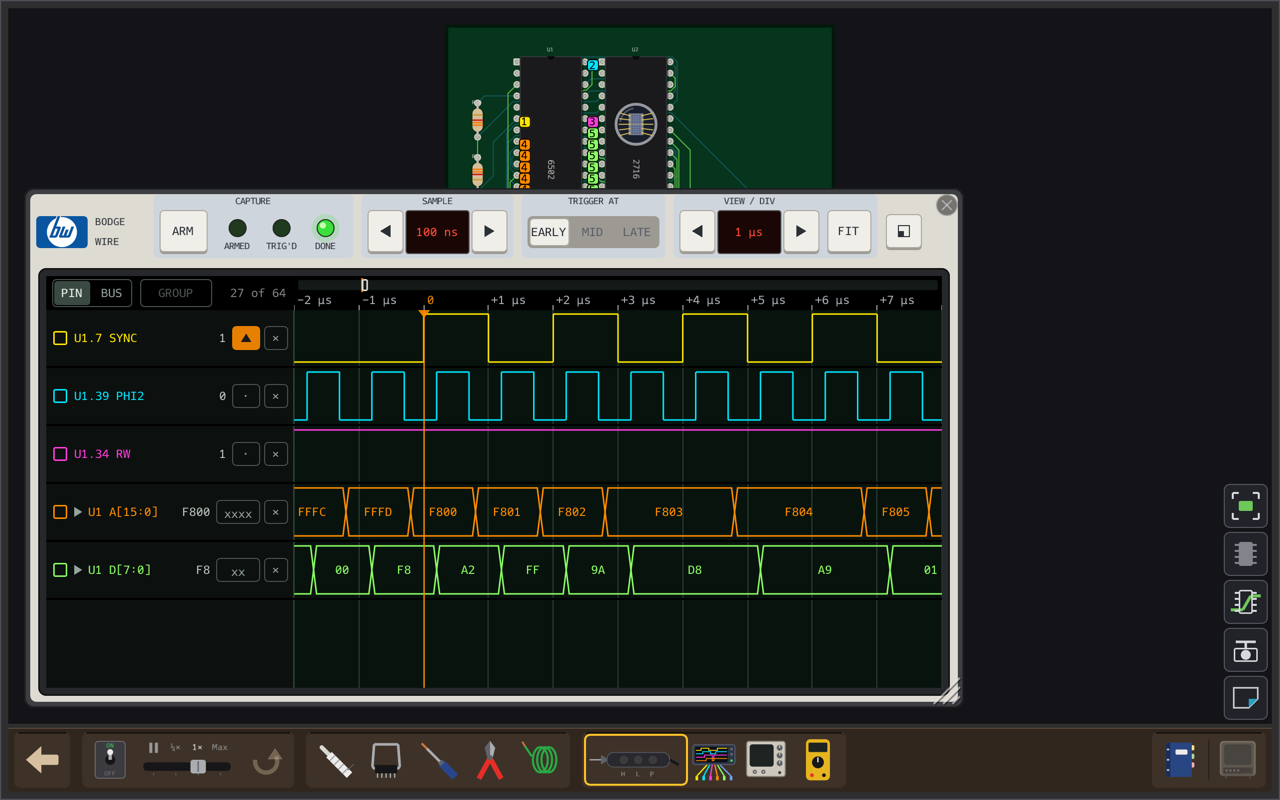
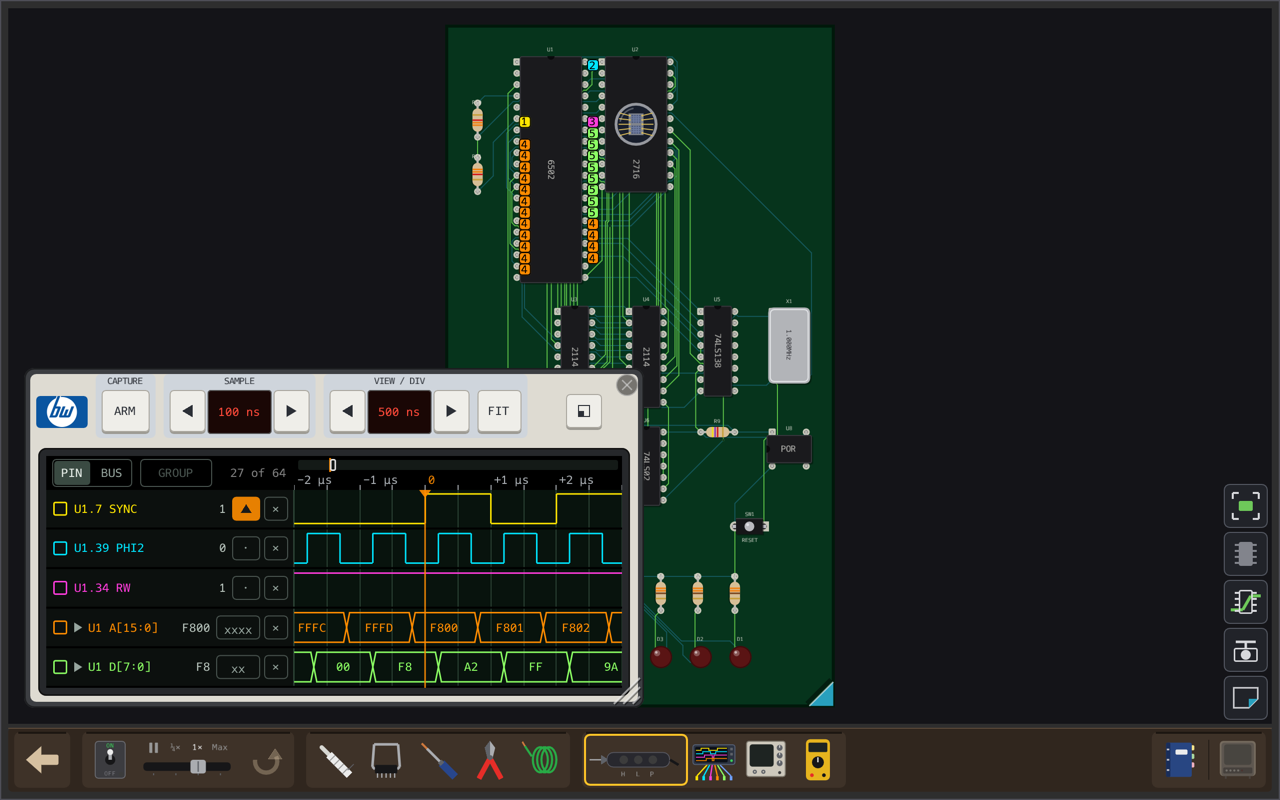
ui: the analyzer narrower: no TRIGGER AT, its phase on the ARM key (P8i)
The Trigger stays early in memory (every manual's setup within its 10 %);
ARM lit amber while armed, green while filling (DrawLitKey). The minimal
size 620 x 340, the scope's width. The README shot zoomed to 500 ns a
division so the reset vector's cells read at that width.
Checks: the full release suite; screenshots.

Changed region(s): [[0.0, 0.2188, 0.75, 0.9062], [0.0312, 0.7812, 0.125, 0.8438]]

diff --git a/src/ui/analyzer_window.cpp b/src/ui/analyzer_window.cpp
@@ -45,9 +45,8 @@ constexpr float kPlateKey = 28;  // a plate's keys' hit boxes, a finger's (kCont
 constexpr float kBitKey = 28, kBusKey = 44, kCloseKey = 24;
 constexpr float kBackKey = 22;  // ◀ or ▶, back to the Trigger, at an end of the axis
 constexpr std::array<const char*, 5> kConditions{"any", "0", "1", "rise", "fall"};
-constexpr std::array<TriggerPosition, 3> kPositions{TriggerPosition::Early, TriggerPosition::Middle,
-                                                    TriggerPosition::Late};
-constexpr std::array<const char*, 3> kPositionNames{"EARLY", "MID", "LATE"};
+constexpr ImU32 kArmWaiting = IM_COL32(255, 196, 92, 255);   // ARM lit amber: armed
+constexpr ImU32 kArmFilling = IM_COL32(124, 230, 112, 255);  // and green: triggered
 constexpr const char* kEmptyHint = "Clip a pin: the analyzer in hand, click a chip's pin.";
 
 // `width` bits in hex, X for a value with an unknown member.
@@ -57,10 +56,6 @@ std::string BusText(std::uint32_t value, bool unknown, std::size_t width) {
         return std::string(digits, 'X');
     }
     return std::format("{:0{}X}", value, digits);
-}
-
-Time BeforeTrigger(TriggerPosition position, Time period) {
-    return static_cast<Time>(PreTriggerPoints(position)) * period;
 }
 
 ImU32 WithAlpha(ImU32 colour, int alpha) {
@@ -228,15 +223,12 @@ bool AnalyzerWindow::draw(bool& open, Session& session) {
 
     // The case: frame, groups and their labels, badge, bezel.
     DrawCaseFrame(list, at, windowSize.x, windowSize.y);
-    for (const Box& group :
-         {layout.captureGroup, layout.sampleGroup, layout.triggerAtGroup, layout.viewGroup}) {
+    for (const Box& group : {layout.captureGroup, layout.sampleGroup, layout.viewGroup}) {
         DrawGroup(list, at, group);
     }
     const float labelY = layout.captureGroup.y0 + 2;
     DrawGroupLabel(list, at, layout.captureGroup.x0, layout.captureGroup.x1, labelY, "CAPTURE");
     DrawGroupLabel(list, at, layout.sampleGroup.x0, layout.sampleGroup.x1, labelY, "SAMPLE");
-    DrawGroupLabel(list, at, layout.triggerAtGroup.x0, layout.triggerAtGroup.x1, labelY,
-                   "TRIGGER AT");
     DrawGroupLabel(list, at, layout.viewLess.x0, layout.viewMore.x1, labelY, "VIEW / DIV");
     DrawBadge(list, at, layout.badge);
     DrawBezel(list, at, layout.bezel);
@@ -248,20 +240,25 @@ bool AnalyzerWindow::draw(bool& open, Session& session) {
         ImGui::SetItemTooltip("%s", tip);
         return std::pair{hit, ImGui::IsItemActive()};
     };
-    // CAPTURE: ARM, and while paused the run resumed (P8i); the phase's lamps.
-    const auto [arm, armHeld] = key("##arm", layout.armKey, "arm: a Capture at the next Trigger");
+    // CAPTURE: ARM, lit by the phase (2026-11-27: in place of three lamps): amber while it waits
+    // for the Trigger, green while it fills after it, dark with a Capture shown; and while paused,
+    // ARM resumes the run (P8i).
+    const AnalyzerPhase phase = setup.phase();
+    const bool armed = phase == AnalyzerPhase::Armed || phase == AnalyzerPhase::Filling;
+    const char* armTip = phase == AnalyzerPhase::Armed     ? "armed: waiting for the Trigger"
+                         : phase == AnalyzerPhase::Filling ? "triggered: filling the Capture"
+                                                           : "arm: a Capture at the next Trigger";
+    const auto [arm, armHeld] = key("##arm", layout.armKey, armTip);
     if (arm) {
         setup.arm();
         if (session.powered() && session.status().state == RunState::Paused) {
             runAsked_ = true;
         }
     }
-    DrawKey(list, at, layout.armKey, "ARM", armHeld);
-    const AnalyzerPhase phase = setup.phase();
-    const bool armed = phase == AnalyzerPhase::Armed || phase == AnalyzerPhase::Filling;
-    DrawLamp(list, at, layout.lamps[0], phase == AnalyzerPhase::Armed, "ARMED");
-    DrawLamp(list, at, layout.lamps[1], phase == AnalyzerPhase::Filling, "TRIG'D");
-    DrawLamp(list, at, layout.lamps[2], shown_.has_value() && !armed, "DONE");
+    DrawLitKey(list, at, layout.armKey, "ARM", armHeld,
+               phase == AnalyzerPhase::Armed     ? kArmWaiting
+               : phase == AnalyzerPhase::Filling ? kArmFilling
+                                                 : 0);
     // SAMPLE: ◀ a longer period, ▶ a shorter; the LED opens the periods by unit.
     const auto period = static_cast<std::size_t>(
         std::ranges::find(kAnalyzerPeriods, settings.period) - kAnalyzerPeriods.begin());
@@ -287,23 +284,6 @@ bool AnalyzerWindow::draw(bool& open, Session& session) {
         settings.period = *chosen;
         changed = true;
     }
-    // TRIGGER AT: EARLY | MID | LATE, the time before the Trigger in each tooltip.
-    std::size_t position = 0;
-    for (std::size_t i = 0; i < kPositions.size(); ++i) {
-        const std::string tip =
-            std::format("{} of the Capture before the Trigger",
-                        FormatTime(BeforeTrigger(kPositions[i], settings.period), false));
-        ImGui::PushID(static_cast<int>(i));
-        if (key("##at", layout.triggerAt[i], tip.c_str()).first) {
-            settings.position = kPositions[i];
-            changed = true;
-        }
-        ImGui::PopID();
-        if (settings.position == kPositions[i]) {
-            position = i;
-        }
-    }
-    DrawRocker(list, at, layout.triggerAt, kPositionNames, position);
     // VIEW / DIV: ◀ see more, ▶ look closer, about the view's centre; FIT the whole Capture.
     const auto [wider, widerHeld] = key("##view-", layout.viewLess, "see more (wheel or pinch)");
     const auto [closer, closerHeld] = key("##view+", layout.viewMore, "look closer");

diff --git a/src/view/analyzer_layout.cpp b/src/view/analyzer_layout.cpp
@@ -8,9 +8,8 @@ namespace bw {
 
 namespace {
 
-constexpr float kArm = 48, kLamp = 22, kLampStep = 44;
+constexpr float kArm = 48;
 constexpr float kLed = 64;
-constexpr float kHalf = 44;  // a TRIGGER AT half
 constexpr float kFit = 44;
 constexpr float kBezelTop = 80, kBezelSide = 14, kBezelBottom = 12, kBezelInset = 8;
 // The screen's top rows: the corner's keys, the overview, the axis.
@@ -21,29 +20,16 @@ constexpr float kRowsTop = kAxisTop + kAxisHeight;  // 34
 // The groups after the badge, from `x`.
 void LayOutGroups(AnalyzerCaseLayout& l, float x) {
     const float y0 = kStripKeysTop, y1 = kStripKeysTop + kStripKeyHigh;
-    // CAPTURE: ARM, three lamps.
+    // CAPTURE: ARM, lit by the phase.
     l.armKey = {x + kStripPad, y0, x + kStripPad + kArm, y1};
-    const float lampY = kStripKeysTop + (kStripKeyHigh - kLamp) / 2 - 4;
-    for (std::size_t i = 0; i < l.lamps.size(); ++i) {
-        const float cx = l.armKey.x1 + kStripGap + kLampStep * (static_cast<float>(i) + 0.5f);
-        l.lamps[i] = {cx - kLamp / 2, lampY, cx + kLamp / 2, lampY + kLamp};
-    }
-    l.captureGroup = {x, kGroupTop, l.armKey.x1 + kStripGap + 3 * kLampStep + kStripPad,
-                      kGroupBottom};
+    l.captureGroup = {x, kGroupTop, l.armKey.x1 + kStripPad, kGroupBottom};
     // SAMPLE: ◀ LED ▶.
     x = l.captureGroup.x1 + kStripGap;
     const float sampleEnd =
         LayOutStepper(x + kStripPad, kLed, l.sampleLess, l.sampleValue, l.sampleMore);
     l.sampleGroup = {x, kGroupTop, sampleEnd + kStripPad, kGroupBottom};
-    // TRIGGER AT: EARLY | MID | LATE.
-    x = l.sampleGroup.x1 + kStripGap;
-    for (std::size_t i = 0; i < l.triggerAt.size(); ++i) {
-        const float hx = x + kStripPad + kHalf * static_cast<float>(i);
-        l.triggerAt[i] = {hx, y0, hx + kHalf, y1};
-    }
-    l.triggerAtGroup = {x, kGroupTop, l.triggerAt.back().x1 + kStripPad, kGroupBottom};
     // VIEW / DIV: ◀ LED ▶, FIT.
-    x = l.triggerAtGroup.x1 + kStripGap;
+    x = l.sampleGroup.x1 + kStripGap;
     const float viewEnd = LayOutStepper(x + kStripPad, kLed, l.viewLess, l.viewValue, l.viewMore);
     l.fitKey = {viewEnd + kStripGap, y0, viewEnd + kStripGap + kFit, y1};
     l.viewGroup = {x, kGroupTop, l.fitKey.x1 + kStripPad, kGroupBottom};

diff --git a/src/view/analyzer_layout.hpp b/src/view/analyzer_layout.hpp
@@ -1,23 +1,19 @@
 #pragma once
 
-#include <array>
 #include <cstddef>
 
 #include "view/case_strip.hpp"
 
 namespace bw {
 
-// The Logic Analyzer's case (P8i), px from the window's top left: the strip (the badge, CAPTURE,
-// SAMPLE, TRIGGER AT, VIEW / DIV, the size key), the screen in its bezel under it. The screen's
+// The Logic Analyzer's case (P8i), px from the window's top left: the strip (the badge, CAPTURE's
+// lit ARM key, SAMPLE, VIEW / DIV, the size key), the screen in its bezel under it. The screen's
 // corner above the plates holds PIN | BUS, GROUP and the count of Clips; the overview and the time
 // axis are above the lanes; the rows under them, to the screen's bottom.
 struct AnalyzerCaseLayout {
     Badge badge;
-    Box captureGroup, armKey;
-    std::array<Box, 3> lamps;  // ARMED, TRIG'D, DONE
+    Box captureGroup, armKey;  // the key lit by the phase (2026-11-27: no lamps)
     Box sampleGroup, sampleLess, sampleValue, sampleMore;
-    Box triggerAtGroup;
-    std::array<Box, 3> triggerAt;  // EARLY, MID, LATE
     Box viewGroup, viewLess, viewValue, viewMore, fitKey;
     Box sizeKey;
     Box bezel, screen;
@@ -26,7 +22,7 @@ struct AnalyzerCaseLayout {
     Box rows;                               // plates and lanes, to the screen's bottom
     float laneX0 = 0;                       // the lanes' left: screen.x0 + kAnalyzerPlate
 };
-inline constexpr float kAnalyzerMinWidth = 880, kAnalyzerMinHeight = 340;
+inline constexpr float kAnalyzerMinWidth = 620, kAnalyzerMinHeight = 340;
 inline constexpr float kAnalyzerPlate = 248;  // a row's plate: tick, name, value, Trigger, ×
 inline constexpr float kRowMin = 28, kRowMax = 56, kRowGap = 2;
 AnalyzerCaseLayout LayOutAnalyzerCase(float width, float height);

diff --git a/tests/view/analyzer_layout_test.cpp b/tests/view/analyzer_layout_test.cpp
@@ -14,8 +14,6 @@ std::vector<Box> Strip(const AnalyzerCaseLayout& l) {
     if (l.badge.hasWords) {
         boxes.push_back(l.badge.words);
     }
-    boxes.insert(boxes.end(), l.lamps.begin(), l.lamps.end());
-    boxes.insert(boxes.end(), l.triggerAt.begin(), l.triggerAt.end());
     return boxes;
 }
 
@@ -29,7 +27,7 @@ void CheckStrip(const AnalyzerCaseLayout& l, float width) {
     }
     CHECK(l.sizeKey.x1 <= width - kCaseClose);  // clear of CaseClose's corner
     CHECK(l.viewGroup.x1 <= l.sizeKey.x0);
-    const std::vector<Box> groups{l.captureGroup, l.sampleGroup, l.triggerAtGroup, l.viewGroup};
+    const std::vector<Box> groups{l.captureGroup, l.sampleGroup, l.viewGroup};
     for (std::size_t i = 0; i + 1 < groups.size(); ++i) {
         CHECK(groups[i].x1 < groups[i + 1].x0);
     }
@@ -43,6 +41,13 @@ TEST_CASE("analyzer layout: the strip at the minimal size", "[view]") {
     CheckStrip(l, kAnalyzerMinWidth);
     CHECK_FALSE(l.badge.hasWords);
     CHECK(l.screen.y0 >= kCaseStrip);
+}
+
+TEST_CASE("analyzer layout: the words from about 650 px", "[view]") {
+    CHECK_FALSE(LayOutAnalyzerCase(640, 400).badge.hasWords);
+    const AnalyzerCaseLayout at660 = LayOutAnalyzerCase(660, 400);
+    CHECK(at660.badge.hasWords);
+    CheckStrip(at660, 660);
 }
 
 TEST_CASE("analyzer layout: the words at the normal size", "[view]") {

diff --git a/src/ui/case_keys.cpp b/src/ui/case_keys.cpp
@@ -93,6 +93,19 @@ void DrawKey(ImDrawList& list, ImVec2 at, const Box& key, const char* label, boo
     Centred(list, at, Cap(list, at, key, pressed), label, kInk);
 }
 
+void DrawLitKey(ImDrawList& list, ImVec2 at, const Box& key, const char* label, bool pressed,
+                ImU32 light) {
+    const Box face = Cap(list, at, key, pressed);
+    if (light != 0) {
+        const ImU32 halo = (light & ~IM_COL32_A_MASK) | (60u << IM_COL32_A_SHIFT);
+        list.AddRect({at.x + face.x0 - 2, at.y + face.y0 - 2},
+                     {at.x + face.x1 + 2, at.y + face.y1 + 2}, halo, 6, 0, 4.0f);
+        list.AddRectFilled({at.x + face.x0 + 1, at.y + face.y0 + 1},
+                           {at.x + face.x1 - 1, at.y + face.y1 - 1}, light, 4);
+    }
+    Centred(list, at, face, label, kInk);
+}
+
 void DrawArrowKey(ImDrawList& list, ImVec2 at, const Box& key, bool right, bool pressed) {
     const Box face = Cap(list, at, key, pressed);
     const float cx = at.x + (face.x0 + face.x1) / 2, cy = at.y + (face.y0 + face.y1) / 2;

diff --git a/src/ui/case_keys.hpp b/src/ui/case_keys.hpp
@@ -24,6 +24,10 @@ void DrawBadge(ImDrawList& list, ImVec2 at, const Badge& badge);  // the logo, B
 void DrawBezel(ImDrawList& list, ImVec2 at, const Box& bezel);
 // A key cap with a text; pressed: lower, no shadow.
 void DrawKey(ImDrawList& list, ImVec2 at, const Box& key, const char* label, bool pressed);
+// A key cap lit from within (P8i: the analyzer's ARM, by its phase), `light` its colour; 0: dark,
+// as DrawKey.
+void DrawLitKey(ImDrawList& list, ImVec2 at, const Box& key, const char* label, bool pressed,
+                ImU32 light);
 // A ◀ or ▶ key, its arrow a triangle (the font has none).
 void DrawArrowKey(ImDrawList& list, ImVec2 at, const Box& key, bool right, bool pressed);
 // The size key: a key cap with the instruments' two-squares icon.

diff --git a/tools/readme_shots.py b/tools/readme_shots.py
@@ -36,7 +36,7 @@ SHOTS = {
     # The 6502 starting: the reset vector fetched (FFFC, FFFD), then F800's first instructions.
     "analyzer": (
         ["machines/110-led-computer/led_computer.bwn", "--group", "U1.A0,U1.D0",
-         "--clip", "U1.SYNC:r,U1.PHI2,U1.RW", "--sample", "100ns", "--view", "1us:+3us"], "1s"),
+         "--clip", "U1.SYNC:r,U1.PHI2,U1.RW", "--sample", "100ns", "--view", "500ns:+500ns"], "1s"),
     # Triggered on VIDEO: a visible line's vertical-line pulses, then the horizontal sync.
     "scope": (
         ["machines/050-test-pattern/test_pattern.bwn", "--hook", "J2.VIDEO,J2.SYNC_N",

diff --git a/src/view/bench_places.cpp b/src/view/bench_places.cpp
@@ -80,7 +80,7 @@ Extent NormalSize(BenchObject instrument) {
 Extent MinimalSize(BenchObject instrument) {
     switch (instrument) {
     case BenchObject::Analyzer:
-        return {880, 340};  // P8i: the strip of keys
+        return {620, 340};  // P8i: the strip of keys, the plates and some lanes
     case BenchObject::Scope:
         return {620, 400};  // P8h: the strip's 44 px keys
     default:

diff --git a/docs/p8i-logic-analyzer/LOGIC_ANALYZER.md b/docs/p8i-logic-analyzer/LOGIC_ANALYZER.md
@@ -8,7 +8,7 @@ Roadmap step P8i (ARCHITECTURE.md#roadmap): the Logic Analyzer's window given th
 |---|---|
 | ![](mockups/analyzer_minimal.svg) | ![](mockups/analyzer_armed.svg) |
 
-Mock-ups drawn by [mockups/analyzer_mock.py](mockups/analyzer_mock.py) (`python3 -I analyzer_mock.py` rewrites the SVGs beside it and prints the strip's widths), not by the game, at its sizes (keys 36 × 44, the scope's case): 940 × 520 normal, 880 × 340 minimal.
+The mock-ups predate two decisions of 2026-11-27 (below: no TRIGGER AT, the lamps folded into `ARM`; the minimal size 620 × 340). Mock-ups drawn by [mockups/analyzer_mock.py](mockups/analyzer_mock.py) (`python3 -I analyzer_mock.py` rewrites the SVGs beside it and prints the strip's widths), not by the game, at its sizes (keys 36 × 44, the scope's case): 940 × 520 normal, 880 × 340 minimal.
 
 Drawing them changed three things (the agent; taken by the user, 2026-11-26, "we may have to revisit later"):
 
@@ -40,7 +40,7 @@ What works and stays: the Capture model (64 Channels, 65 536 points, the sample 
 The user, 2026-11-26, on the agent's list of ideas:
 
 - **A drawn case in the scope's family**: the same frame, panel, key caps, red LEDs and BW logo; no title bar; the size key and × on the case; dragged by its body.
-- **A strip of keys, one group per concern**, left to right: the badge; CAPTURE (`ARM`, lamps `ARMED`, `TRIG'D`, `DONE`); SAMPLE (◀ LED ▶, the LED opening the grid by unit); TRIGGER AT (a rocker `EARLY | MID | LATE`); VIEW (◀ LED ▶ for the zoom, `FIT`); the size key. Hard to judge before seeing it; taken as proposed (`PIN | BUS` and `GROUP` then moved to the screen's corner, above).
+- **A strip of keys, one group per concern**, left to right: the badge; CAPTURE (`ARM`); SAMPLE (◀ LED ▶, the LED opening the grid by unit); VIEW (◀ LED ▶ for the zoom, `FIT`); the size key. Hard to judge before seeing it; taken as proposed (`PIN | BUS` and `GROUP` then moved to the screen's corner, above).
 - **Labels on the screen**: each row's one-line plate over its lane's left end (swatch, name, value, Trigger key, ×); no column headings.
 - **The Trigger as a lit key on each plate**, dark on `any`, lit orange with its condition otherwise (`0`, `1`, ↑, ↓), a group's with its pattern (`F800`). The whole Trigger summed up in the strip only if it fits: it does not (the strip fills 940 px), so not.
 - **The cursor's tag on the screen** (its time, `dt` from the Marker), the mouse snapping to an edge; the status line and the gesture hint go ("status lines are evil").
@@ -50,6 +50,8 @@ The user, 2026-11-26, on the agent's list of ideas:
 - **Rows reordered by dragging their plates**; the Board's discs numbered by row place, as the scope's Hooks are.
 - **Colours by row**, a group's members in their group's colour.
 - **Grouping visible**: the plates' swatches tick; two Channels ticked light the `GROUP` key; a group ticked turns it into `UNGROUP` (asked, 2026-11-26: a key of its own on a group's plate does not fit beside its pattern and ×).
+- **No TRIGGER AT; the phase on the ARM key** (2026-11-27, the window being too wide): the Trigger stays early in memory (10 %), enough for every manual's setup (the most history read before a Trigger is 2 ms, at 10 µs a sample: EARLY keeps 65 ms there); `ARM` lit amber while waiting for the Trigger, green while filling, dark with a Capture shown, in place of three lamps. The minimal size 620 × 340, the scope's width; BODGE / WIRE from about 650 px.
+- **It opens at its minimal size**, as the scope (2026-11-27); **an orange ◀ or ▶ at the axis's end** while the Trigger is off the view brings it back (the scope's ◀, 2026-11-26).
 - **One-shot Captures, re-armed at every power-on**: repair, power on, read the new Capture, no key; `ARM` captures again without a power cycle. A repeating Run rejected: stable only on a repeating signal, which the scope already shows, and studying a CPU's Capture would need Stop back.
 - **`ARM` resumes a paused run**: pause saves the host's CPU, it is not a way to capture. Powered off, `ARM` waits for the power-on, which arms anyway.
 - **A new Clip always arms** (today only while the analyzer waits: after a Capture the phase stays `captured`), since its lane is empty until a Capture that has it. While paused it arms without resuming, so several pins can be clipped first.
@@ -60,7 +62,7 @@ Chosen without asking: what goes with the old header: the `T` key (centre on the
 ## What the player sees
 
 1. **The case.** A drawn case, no title bar, the scope's frame and panel: the strip along its top, the screen below in a dark bezel, the size key and × at the strip's right end, the corner grip. Dragged by its body; resized freely; the presets minimal, normal, full as now.
-2. **The strip** (decided above), drawn as the scope's: key caps, red LED windows, green lamps. `ARMED` lit while waiting for the Trigger, `TRIG'D` while filling after it, `DONE` with a Capture shown. SAMPLE's LED `100 ns`, its grid by unit as the scope's timebase. TRIGGER AT's halves `EARLY`, `MID`, `LATE`, the time before the Trigger in their tooltips. VIEW / DIV's LED `1 µs` (the label says per division, as TIME / DIV's on the scope).
+2. **The strip** (decided above), drawn as the scope's: key caps, red LED windows. `ARM` lit amber while waiting for the Trigger, green while filling after it, dark with a Capture shown. SAMPLE's LED `100 ns`, its grid by unit as the scope's timebase. VIEW / DIV's LED `1 µs` (the label says per division, as TIME / DIV's on the scope).
 3. **The screen.** Its top left corner, above the plates: `PIN | BUS`, `GROUP`, the count of Clips (`5 of 64`). Above the lanes: the overview (thin, the view as a box, the Trigger and Marker as ticks), the time axis. Then the rows, each a lane with its plate, black between them; under the last row the screen goes on to its bottom, its grid and marks too.
 4. **A plate**: a swatch (a tick box for grouping), the name (`U1.7 SYNC`, `U1 A[15:0]` with its fold arrow), the value (at the cursor, else the Marker, else the Trigger: `1`, `F802`, `X`), the Trigger key, ×. Dragged up or down, it moves its row.
 5. **The cursor's tag** at the cursor on the screen: `+2.3 µs   dt 1.3 µs`. The mouse and a Finger land on an edge of the row they are on within 12 px.

diff --git a/docs/ARCHITECTURE.md b/docs/ARCHITECTURE.md
@@ -285,7 +285,7 @@ Custom machines mimic real ones; paper-check the model against the real schemati
 | P8f | Touch on tablets | done (2026-11-25; checked by the user on an iPad the same day, "it works very well", a few rough edges left to list): `bw_ui` played with fingers on a tablet in landscape, the web build first; no phone. One interface for the mouse and the finger, which differs only in its input: a pinch and two fingers zoom, pan, scroll and resize; a hold shows a loupe on the Board or places a time screen's cursor; a repair's first tap lights its target, the second does it. For both: view buttons and Hold switches for what Tab, Option and the right-click did, steppers and a number pad for the dropdowns and text fields, controls of 28 and 44 px, pages and the Launcher's lanes dragged, objects with a corner grip that can fill the bench, a narrower Shelf at 1080 px. [TOUCH.md](p8f-touch/TOUCH.md), [design](p8f-touch/TOUCH_DESIGN.md), [plan](p8f-touch/TOUCH_PLAN.md) |
 | P8g | Multimeter redesign | done (2026-11-25): the Multimeter held like the Logic Probe, no window (the user grilled first). Pressed on copper, its LCD rises above its Shelf drawing and reads the red lead until the press ends; the power switch is its mode: volts while powered (dashes while paused), continuity while off, where a click clips the black lead (a click on the clip or the power going on lifts it) and the LCD shows `bEEP` lit green or `----`. A pin link held in a manual measures; a finger reads through the loupe. 110 with the meter held: 1.00×, UI 0.2 ms. [MULTIMETER.md](p8g-multimeter/MULTIMETER.md), [design](p8g-multimeter/MULTIMETER_DESIGN.md), [plan](p8g-multimeter/MULTIMETER_PLAN.md) |
 | P8h | Oscilloscope redesign | done (2026-11-26): the scope as an HP-like case by Bodge Wire, its screen in one band per Hook named on a plate (pin, reading, Trigger, ×), bands reordered by their plates, a strip of keys with red LEDs for the timebase and position, Run/Stop gone (the user grilled first). [OSCILLOSCOPE.md](p8h-oscilloscope/OSCILLOSCOPE.md), [design](p8h-oscilloscope/OSCILLOSCOPE_DESIGN.md), [plan](p8h-oscilloscope/OSCILLOSCOPE_PLAN.md) |
-| P8i | Logic Analyzer redesign | done (2026-11-26): the analyzer as the scope's sibling case by Bodge Wire, a strip of keys (ARM and its lamps, SAMPLE, TRIGGER AT, VIEW / DIV), its rows labelled on plates on the screen (value, lit Trigger key, ×), grouped by ticks and moved by dragging, the Board's Clips numbered by row; a new Clip and every power-on arm, ARM resumes a paused run; a Channel reused never shows the old pin's waveform. [LOGIC_ANALYZER.md](p8i-logic-analyzer/LOGIC_ANALYZER.md), [design](p8i-logic-analyzer/LOGIC_ANALYZER_DESIGN.md), [plan](p8i-logic-analyzer/LOGIC_ANALYZER_PLAN.md) |
+| P8i | Logic Analyzer redesign | done (2026-11-26): the analyzer as the scope's sibling case by Bodge Wire, a strip of keys (ARM lit by the phase, SAMPLE, VIEW / DIV), its rows labelled on plates on the screen (value, lit Trigger key, ×), grouped by ticks and moved by dragging, the Board's Clips numbered by row; a new Clip and every power-on arm, ARM resumes a paused run; a Channel reused never shows the old pin's waveform. [LOGIC_ANALYZER.md](p8i-logic-analyzer/LOGIC_ANALYZER.md), [design](p8i-logic-analyzer/LOGIC_ANALYZER_DESIGN.md), [plan](p8i-logic-analyzer/LOGIC_ANALYZER_PLAN.md) |
 | P9 | Freezer | wanted, but on top of a finished game, not before (decided 2026-11-15): |
 | — | Kernel: oscillator lane | potential (P5z, 2026-11-16; [PERFORMANCE.md](PERFORMANCE.md#small-and-exact)): a fixed-period clock's self-wake kept out of the general event queue; estimated 3–6 % on the BW-2001 and BW-80 |
 | — | Kernel: event apply trimmed | potential (P5z; [PERFORMANCE.md](PERFORMANCE.md#small-and-exact)): `driveChanged` and the event apply's bookkeeping (generation, pending); 1–3 %, lines P5b found hard to move |

diff --git a/docs/GLOSSARY.md b/docs/GLOSSARY.md
@@ -301,7 +301,7 @@ An Instrument showing a few Nets over time at fine timing resolution. Drawn as a
 _Avoid_: Scope (fine in speech, not in docs)
 
 **Logic Analyzer**:
-An Instrument recording many Nets at once, with Triggers and a history from before the Trigger. Drawn as an HP-like case by Bodge Wire with no title bar (P8i), the Oscilloscope's family: a strip of keys along its top (the logo; CAPTURE: `ARM` and the lamps `ARMED`, `TRIG'D`, `DONE`; SAMPLE: the period round a red LED, its opening a grid by unit; TRIGGER AT: `EARLY | MID | LATE` in memory; VIEW / DIV: the zoom and `FIT`; the size key), its screen in a bezel under it; it opens at its minimal size. The screen's corner holds `PIN | BUS` (what a click on a pin clips), `GROUP` and the count of Clips; the overview and the time axis run above the rows, an orange ◀ or ▶ at the axis's end while the Trigger is off the view bringing it back one division in from the left. One row per Clip or Channel Group, in the order clipped, named on a plate over its left end: its tick box (or swatch), the name, the value at the cursor, else the Marker, else the Trigger, its Trigger key (dark on any, lit orange with `0`, `1`, a rise or a fall, a group's its pattern) and its ×; a plate dragged up or down moves its row. The rows share the screen up to 56 px each and scroll past it; the screen is drawn to its bottom under them. A new Clip arms it, and so does every power-on; `ARM` arms too, and resumes a paused run. While armed the Capture shown is dimmed; a row whose pins the Capture did not record says `not in this Capture` (a Channel freed and clipped elsewhere never shows the old pin's waveform).
+An Instrument recording many Nets at once, with Triggers and a history from before the Trigger. Drawn as an HP-like case by Bodge Wire with no title bar (P8i), the Oscilloscope's family: a strip of keys along its top (the logo; CAPTURE: `ARM`, lit amber while waiting for the Trigger and green while filling after it; SAMPLE: the period round a red LED, its opening a grid by unit; VIEW / DIV: the zoom and `FIT`; the size key; the Trigger early in memory, 10 % of it before), its screen in a bezel under it; it opens at its minimal size. The screen's corner holds `PIN | BUS` (what a click on a pin clips), `GROUP` and the count of Clips; the overview and the time axis run above the rows, an orange ◀ or ▶ at the axis's end while the Trigger is off the view bringing it back one division in from the left. One row per Clip or Channel Group, in the order clipped, named on a plate over its left end: its tick box (or swatch), the name, the value at the cursor, else the Marker, else the Trigger, its Trigger key (dark on any, lit orange with `0`, `1`, a rise or a fall, a group's its pattern) and its ×; a plate dragged up or down moves its row. The rows share the screen up to 56 px each and scroll past it; the screen is drawn to its bottom under them. A new Clip arms it, and so does every power-on; `ARM` arms too, and resumes a paused run. While armed the Capture shown is dimmed; a row whose pins the Capture did not record says `not in this Capture` (a Channel freed and clipped elsewhere never shows the old pin's waveform).
 
 **Multimeter**:
 An Instrument reading voltage levels and continuity, held like the Logic Probe (P8g): no window. The power switch is its mode: volts while the Machine is powered (black on GND, implied), continuity while it is off. Pressed on copper with it in hand, its LCD rises above its drawing on the Shelf and reads what the red Test Lead touches until the press ends (dashes while paused: a paused Board cannot be read); a pin link held in a manual is the pin held. In continuity a click clips the black Test Lead first; a click on the clip, or the power going on, lifts it; the LCD shows `bEEP` with its sign, lit green, when the two are connected, `----` when not.

diff --git a/docs/p8i-logic-analyzer/LOGIC_ANALYZER_PLAN.md b/docs/p8i-logic-analyzer/LOGIC_ANALYZER_PLAN.md
@@ -23,3 +23,4 @@ Spec: [LOGIC_ANALYZER.md](LOGIC_ANALYZER.md). Design: [LOGIC_ANALYZER_DESIGN.md]
 - 2026-11-26, phase 5: as designed. `GROUP` and `UNGROUP` lit in the screen's key colour, not orange (orange is the Trigger's on both instruments). The dragged plate drawn as an outline in its row's colour with its name. Screenshots on the counter: QB and QC ticked (`GROUP` lit); `GROUP` tapped (`group 1[1:0]` reading 3, 0, 1, 2); the group ticked (`UNGROUP`); QD's plate dragged to the top (QD, QA, QB, QC, the colours by place). Checks: release `^(session|analyzer)` (92).
 - 2026-11-26, phase 6: GLOSSARY (Logic Analyzer, Clip, Channel Group, Marker, Equipment); ADD_INSTRUMENT.md's Window row rewritten for the drawn case as the only shape, its gotchas for `ChoicesPopup`, the mouse's snap and rows scrolled by hand; AGENTS.md's shared helpers (`case_strip`, `case_keys`, `ChoicesPopup`); `docs/readme/analyzer.png` retaken and viewed (README_SPEC's words still true; the values at the Trigger: A `F800`); the manuals' setups still read right ("Sample every", "Arm", "as one group"); the web build builds. Left to the user: the web page's look, the feel of the keys, the ticks and the drag, the upright tablet (below 880 px the strip runs under the case's edge). Checks: the full release suite.
 - 2026-11-27, after the step (the user): the analyzer opens at its minimal size (880 × 340), as the scope does; the Trigger off the view shows an orange ◀ (left of it) or ▶ (right of it) at that end of the axis, as the scope's ◀ (P8h, 2026-11-26), a click putting it one division in from the lanes' left. Screenshots: the LED computer at `--view 1us:+20us` (◀), after a tap on it (the Trigger one division in), at `-40us` (▶).
+- 2026-11-27, after the step (the user): TRIGGER AT gone (the Trigger early, every manual's setup within its 10 %); the lamps folded into `ARM` (`DrawLitKey`: amber armed, green filling); the minimal size 620 × 340 (the strip 569 px; the words from about 648). Screenshots: the LED computer at 620; `ARM` green at 1 ms a sample (filling) and amber on a rise that never comes; the README shot. Checks: release `^(analyzer layout|bench places|session): ` (80), the full release suite.
